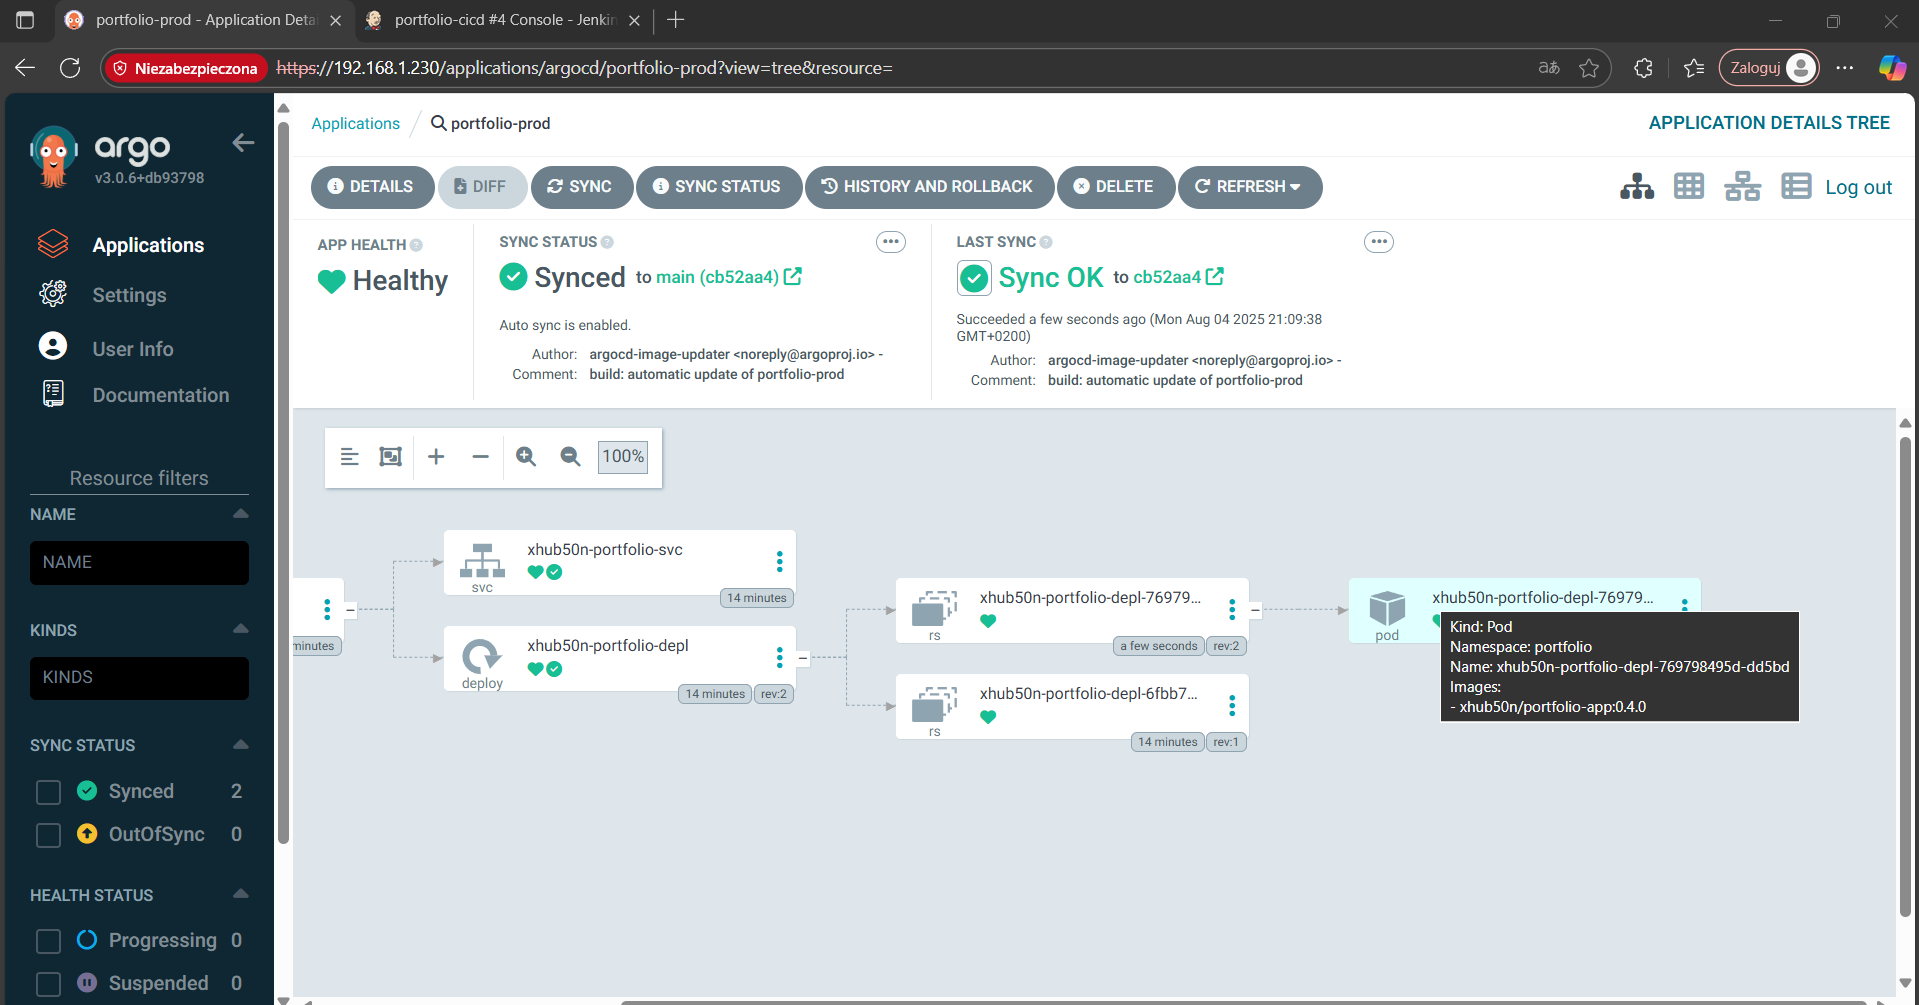
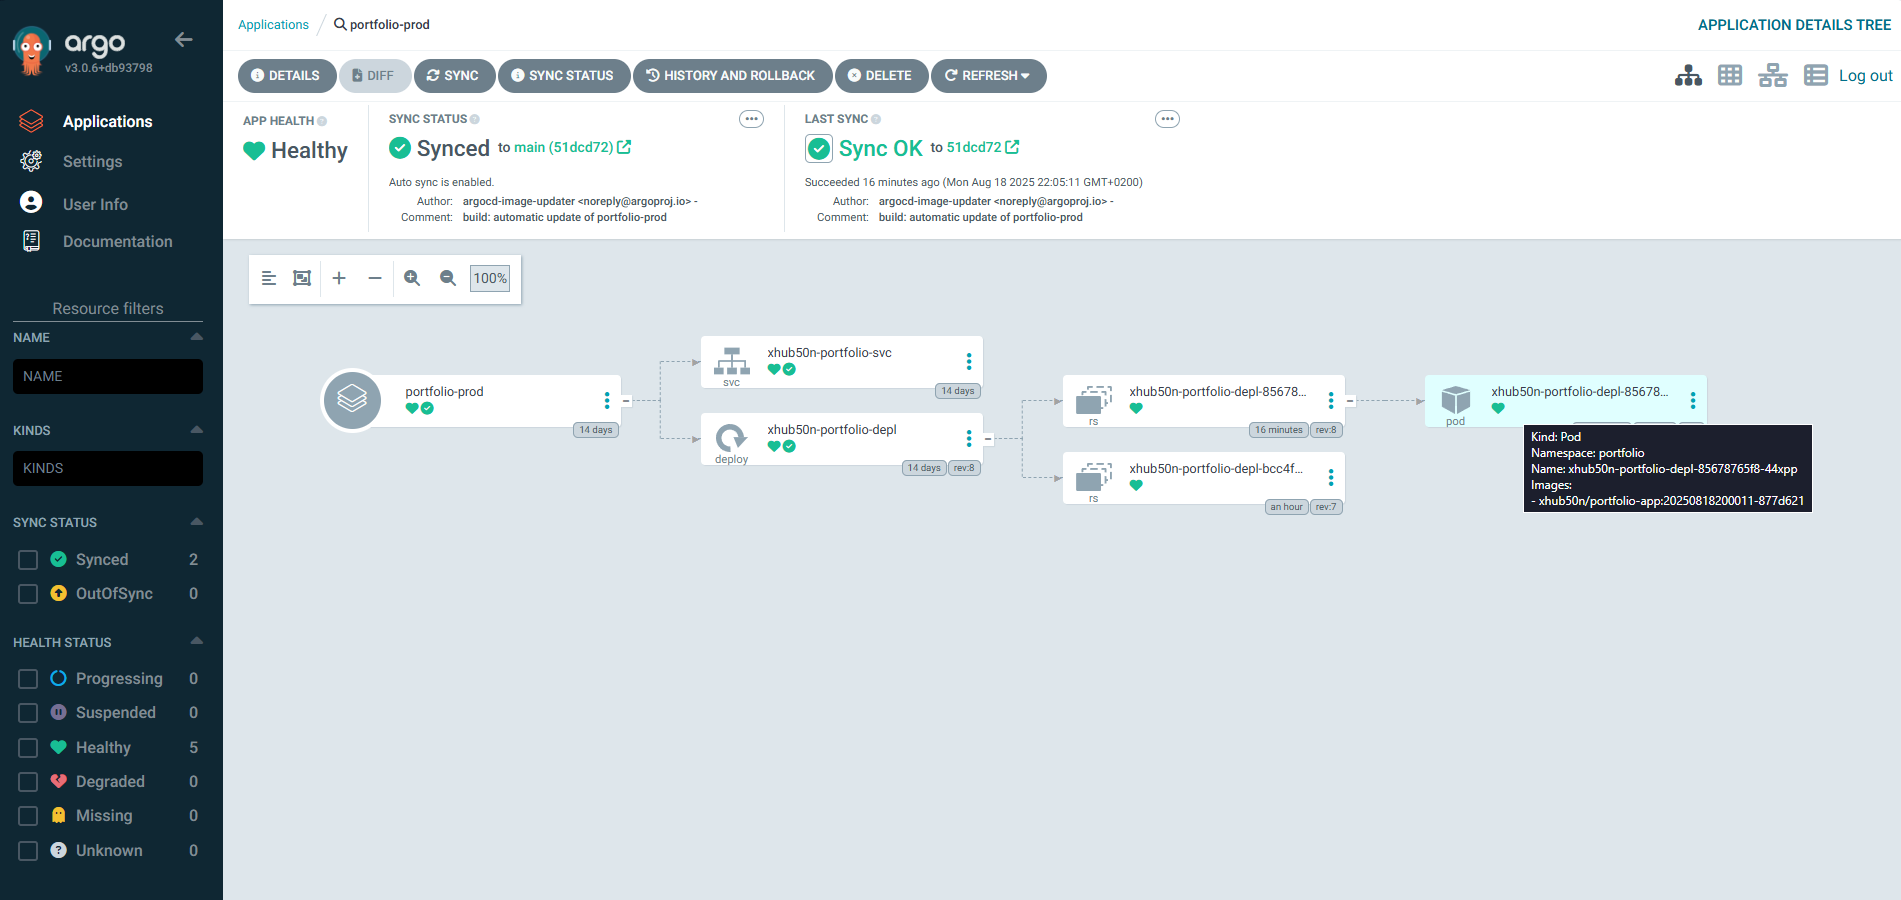
add cloudflare docs

diff --git a/docs/CI/Jenkins.md b/docs/CI/Jenkins.md
@@ -211,15 +211,37 @@ W konfiguracji podaję adres mojego repozytorium oraz sposób uwierzytelniania s
 
 ```
 pipeline {
-    agent any 
+    agent any
 
     environment {
         DOCKER_IMAGE = "xhub50n/portfolio-app"
-        DOCKER_TAG = "0.${BUILD_NUMBER}.0"
         DOCKER_REGISTRY = 'registry.hub.docker.com' 
     }
 
     stages {
+        stage('Prepare Tag') {
+            steps {
+                script {
+                    def commitHash = sh(script: "git rev-parse --short HEAD", returnStdout: true).trim()
+                    def buildDate  = sh(script: "date +%Y%m%d%H%M%S", returnStdout: true).trim()
+                    env.DOCKER_TAG = "${buildDate}-${commitHash}"
+                    echo "Using Docker tag: ${env.DOCKER_TAG}"
+                }
+            }
+        }
+        stage('Check Commit Author') {
+            steps {
+                script {
+                    def author = sh(script: "git log -1 --pretty=format:'%an'", returnStdout: true).trim()
+                    if (author.contains("argocd-image-updater")) {
+                        echo "Commit from ArgoCD image updater — skipping build"
+                        currentBuild.result = 'ABORTED'
+                        error("Skipping build due to ArgoCD commit")
+                    }
+                }
+            }
+        }
+
         stage('Checkout Code') {
             agent {
                 docker {
@@ -228,9 +250,7 @@ pipeline {
                 }
             }
             steps {
-                script {
-                    checkout scm
-                }
+                checkout scm
             }
         }
 
@@ -242,10 +262,8 @@ pipeline {
                 }
             }
             steps {
-                script {
-                    dir('./react-app') {
-                        sh 'npm install'
-                    }
+                dir('./portfolio-app') {
+                    sh 'npm install'
                 }
             }
         }
@@ -258,20 +276,18 @@ pipeline {
                 }
             }
             steps {
-                script {
-                    dir('./react-app') {
-                        sh 'npm run build' 
-                    }
+                dir('./portfolio-app') {
+                    sh 'npm run build'
                 }
             }
         }
+
         stage('Analyze code with SonarQube') {
             steps {
                 script {
-                    def scannerHome = tool 'sonar-scanner' 
-
+                    def scannerHome = tool 'sonar-scanner'
                     withCredentials([string(credentialsId: 'sonarqube-token-jenkins', variable: 'SONAR_TOKEN')]) {
-                        dir('./react-app') {
+                        dir('./portfolio-app') {
                             sh """
                                 ${scannerHome}/bin/sonar-scanner \
                                 -Dsonar.projectKey=portfolio-cicd \
@@ -284,49 +300,82 @@ pipeline {
                 }
             }
         }
+
         stage('Building and pushing container image') {
             steps {
                 withVault([
-                vaultSecrets: [[
-                    path: 'kv/docker',
-                    secretValues: [
-                        [envVar: 'DOCKER_USER', vaultKey: 'username'],
-                        [envVar: 'DOCKER_PASS', vaultKey: 'password']
-                    ]
-                ]]
-            ])
-                {
-                dir("react-app"){
-                    sh '''
-                        echo "${DOCKER_PASS}" | docker login -u "${DOCKER_USER}" --password-stdin
-                        docker build -t ${DOCKER_IMAGE}:${DOCKER_TAG} .
-                        docker push ${DOCKER_IMAGE}:${DOCKER_TAG}
-                    '''
+                    vaultSecrets: [[
+                        path: 'kv/docker',
+                        secretValues: [
+                            [envVar: 'DOCKER_USER', vaultKey: 'username'],
+                            [envVar: 'DOCKER_PASS', vaultKey: 'password']
+                        ]
+                    ]]
+                ]) {
+                    dir("portfolio-app") {
+                        sh '''
+                            echo "${DOCKER_PASS}" | docker login -u "${DOCKER_USER}" --password-stdin
+                            docker build -t ${DOCKER_IMAGE}:${DOCKER_TAG} .
+                            docker push ${DOCKER_IMAGE}:${DOCKER_TAG}
+                        '''
                     }
                 }
             }
         }
+
         stage('Post-build') {
             steps {
-                script {
-                    echo 'Build completed!' 
-                }
+                echo 'Build completed!'
             }
         }
     }
-    
+
     post {
         success {
             echo 'Pipeline zakończony sukcesem!'
         }
+        aborted {
+            echo 'Pipeline został pominięty (commit od ArgoCD).'
+        }
         failure {
-            echo 'Pipeline zakończony błędem!' 
+            echo 'Pipeline zakończony błędem!'
+        }
+    }
+}
+
+```
+
+Tak prezentuje się cały plik `Jenkinsfile`. Ten plik dokonuje kompleksowego zbudowania i opublikowania aplikacji napisanej w React.
+
+```
+stage('Prepare Tag') {
+            steps {
+                script {
+                    def commitHash = sh(script: "git rev-parse --short HEAD", returnStdout: true).trim()
+                    def buildDate  = sh(script: "date +%Y%m%d%H%M%S", returnStdout: true).trim()
+                    env.DOCKER_TAG = "${buildDate}-${commitHash}"
+                    echo "Using Docker tag: ${env.DOCKER_TAG}"
+                }
+            }
+        }
+```
+Istotną kwestią jest dodawnia tag-ów do obrazów kontenerów, mianowicie tagi będą tworzone na podstawie daty oraz hash-a commita na githubie
+
+```
+ stage('Check Commit Author') {
+    steps {
+        script {
+            def author = sh(script: "git log -1 --pretty=format:'%an'", returnStdout: true).trim()
+            if (author.contains("argocd-image-updater")) {
+                echo "Commit from ArgoCD image updater — skipping build"
+                currentBuild.result = 'ABORTED'
+                error("Skipping build due to ArgoCD commit")
+            }
         }
     }
 }
 ```
-
-Tak prezentuje się cały plik `Jenkinsfile`. Ten plik dokonuje kompleksowego zbudowania i opublikowania aplikacji napisanej w React.
+W tym etapie sprawdzam autora danego commita - jeśli autorem jest argocd-image-updater to Jenkins domyślnie anuluje tworzenie obrazu kontenera, dlaczego ten blok kodu tutaj umieściłem to wyjaśni się w dalszej części dokumentacji.
 
 ```
 stage('Analyze code with SonarQube') {

diff --git a/docs/Publikacja środowiska/cloudflare-gh.md b/docs/Publikacja środowiska/cloudflare-gh.md
@@ -1,0 +1,69 @@
+# Publikowanie środowiska i aplikacji
+
+W tym artykule przedstawię przykład publikacji naszej aplikacji i środowiska w taki sposób aby aplikacja była dostępna dla każdego w sieci a komponenty wewnątrz środowiska były odpowiednio skonfigureowane i zabezpieczone.
+
+## Cloudflare
+
+Przydatną usługą, która pomoże nam w skonfigurowaniu środowiska będzie z pewnością cloudflare i jego tunele. 
+
+Do wykonania konfiguracji będzie nam potrzebna domena - oczywiście jeśli generowaliśmy certyfikaty na potrzeby Vault-a to możemy skorzystać z tej domeny.
+
+Aby utworzyć tunel cloudflare musimy przejść na adres: `https://one.dash.cloudflare.com`
+
+![alt text](./images/cloudflare-tunnel.png)
+
+Tak prezentuje się strona na której możemy utworzyć nasz nowy tunel. Konfiguracja i instalacja ogranicza się w zasadzie do podania nazwy tunelu oraz wybraniu systemu operacyjnego na którym zostanie zainstalowany agent cloudflare.
+
+![alt text](./images/cloudflare-install.png)
+
+Po instalacji możemy przejść do zarządzania hostami w cloudflare
+
+![alt text](./images/cloudflare-hosts.png)
+
+Na powyższym screenie mam utworzone hosty nakierowane na moją domenę xhub50n.lat oraz na wszystkie adresy *.xhub50n.lat, jeśli na wejściu tunel odbierze nazwy dns pasujące do tych które podałem wyżej - zostaną one przekierowane do nginx proxy manager a stamtąd odpowiednio przekierowane do konrketnych hostów.
+
+## Nginx Proxy Manager
+
+![alt text](./images/nginx-proxy-manager-hosts.png)
+
+W nginx proxy manager dodaję kolejne hosty które posłużą nam do wystawienia na świat aplikacji jenkins oraz naszej aplikacji portfolio.
+
+Wystawienie Jenkinsa na świat pozwoli nam na automatyczne wykonywanie pipeline po dodaniu nowego commita do repozytorium. 
+
+## Jenkins
+
+![alt text](./images/jenkins-trigger.png)
+
+W ustawieniach pipeline zaznaczamy tą opcję.
+
+## GitHub
+
+![alt text](./images/github-webhook.png)
+
+Następnie przechodzimy do konfiguracji githuba i dodajemy webhook ze wskanym adresem URL
+
+
+W tym momencie można wyjaśnić ten blok kodu z `Jenkinsfile`
+
+```
+stage('Check Commit Author') {
+    steps {
+        script {
+            def author = sh(script: "git log -1 --pretty=format:'%an'", returnStdout: true).trim()
+            if (author.contains("argocd-image-updater")) {
+                echo "Commit from ArgoCD image updater — skipping build"
+                currentBuild.result = 'ABORTED'
+                error("Skipping build due to ArgoCD commit")
+            }
+        }
+    }
+}
+```
+
+Ponieważ argocd jak wspominałem sam tworzy commity - co oznacza że webhook wysyła informacje dla Jenkinsa że może tworzyć nowego build-a, przez to że mamy konwencję tworzenia Tagów poprzez datę i czas to tworzyłyby się nowe obrazy kontenerów co by skutkowało tworzeniem się nieskończonej pętli tworzenia commitów i obrazów kontenerów.
+
+![alt text](./images/cloudflare-waf.png)
+
+Dodatkowo zachęcam do zabawy w blokowanie ruchu dla konkretnych aplikacji tak aby nikt o złych zamiarach nie podłączył się do naszego środowiska i nie psuł nam zabawy.
+
+### [Powrót do strony głównej](../Docs.md)

diff --git a/docs/CD/k3s.md b/docs/CD/k3s.md
@@ -183,7 +183,7 @@ Możemy sprawdzić czy ArgoCD nawiązał połączenie z repo - jak widać udało
 
 ![alt text](./images/argocd-add-docker.png)
 
-**UWAGA** - teraz należy dokonać konfiguracji aplikacji i manifestu automatycznego wdrażania naszej aplikacji do klastra K3S. W naszymn repozytorium tworzymy folder o nazwie np `argocd` (nazwa folderu jest obojętna, ważne aby obiekt Application w ArgoCD miał nakierowany folder w repozytorium o tej samej nazwie)
+**UWAGA** - teraz należy dokonać konfiguracji aplikacji i manifestu automatycznego wdrażania naszej aplikacji do klastra K3S. W naszym repozytorium tworzymy folder o nazwie np `argocd` (nazwa folderu jest obojętna, ważne aby obiekt Application w ArgoCD miał nakierowany folder w repozytorium o tej samej nazwie)
 
 Wycinek pliku `kubernetes/argocd/application.yaml`
 ```
@@ -275,9 +275,8 @@ Potwierdzenie wykonania commita przez ArgoCD.
 
 ![alt text](./images/github-check-files.png)
 
-Sprawdzenie pliku wygenerowanego przez ArgoCD - aplikacja będzie nanosić zmianę wykorzystywanej wersji naszej aplikacji - teraz mamy wersję 0.4.0 ale w przyszłości w tym pliku będzie informacja o wersji 0.5.0 itd.
+Sprawdzenie pliku wygenerowanego przez ArgoCD - aplikacja sama nanosi zmiany w pliku w którym jest zawarta informacja o obecnie wykorzystywanej wersji obrazu kontenera - jak widać podczas testowania rozwiązania miałem wcześniej ustawienie tagów jako `semver` i tagi były tworzone na podstawie numeru zadania w Jenkins. Obecnie zmieniłem podejście tak aby ArgoCD zawsze korzystał z najnowszej wersji obrazu oraz zmieniłem konwencję nazewnictwa.
 
-![alt text](./images/k3s-argocd-logs.png)
 
 Po chwili ArgoCD wykrywa nowy commit na repozytorium, pobiera zmiany i dostosowuje klaster K3S do uruchomienia aplikacji w najnowszej wersji.
 

diff --git a/docs/Docs.md b/docs/Docs.md
@@ -17,6 +17,9 @@ W tym artykule zawarta jest kompleksowa dokumentacja wdrożenia projektu. Chcę 
 #### Proces CD
 - [Konfiguracja i wdrożenie K3S oraz ArgoCD](./CD/k3s.md)
 
+#### Publikacja środowiska
+- [Cloudflare i GitHub Webhook](./CD/k3s.md)
+
 ---
 ### Schemat Środowiska
 
